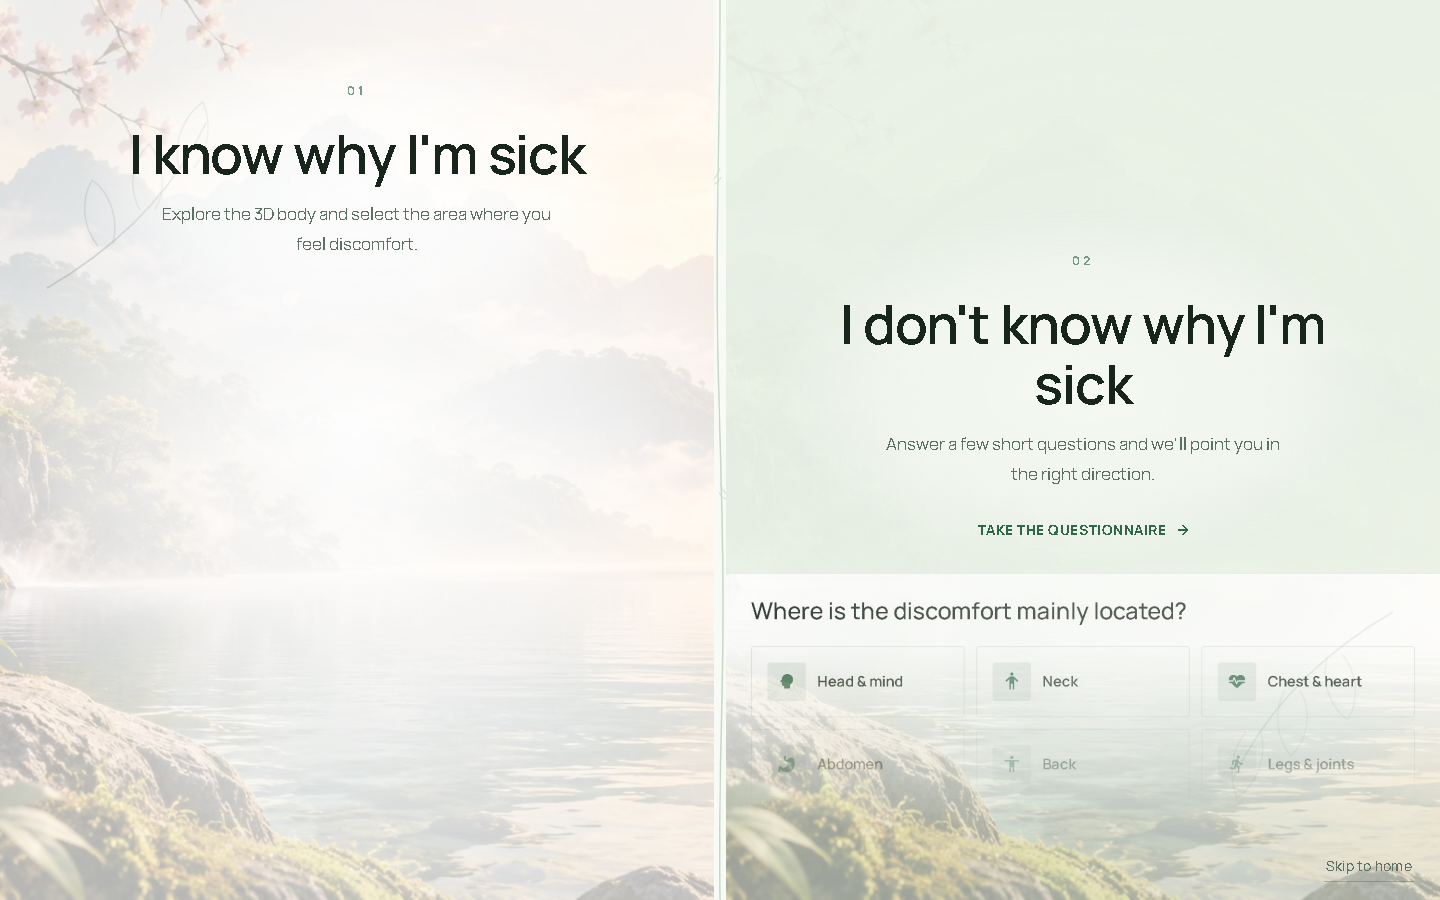
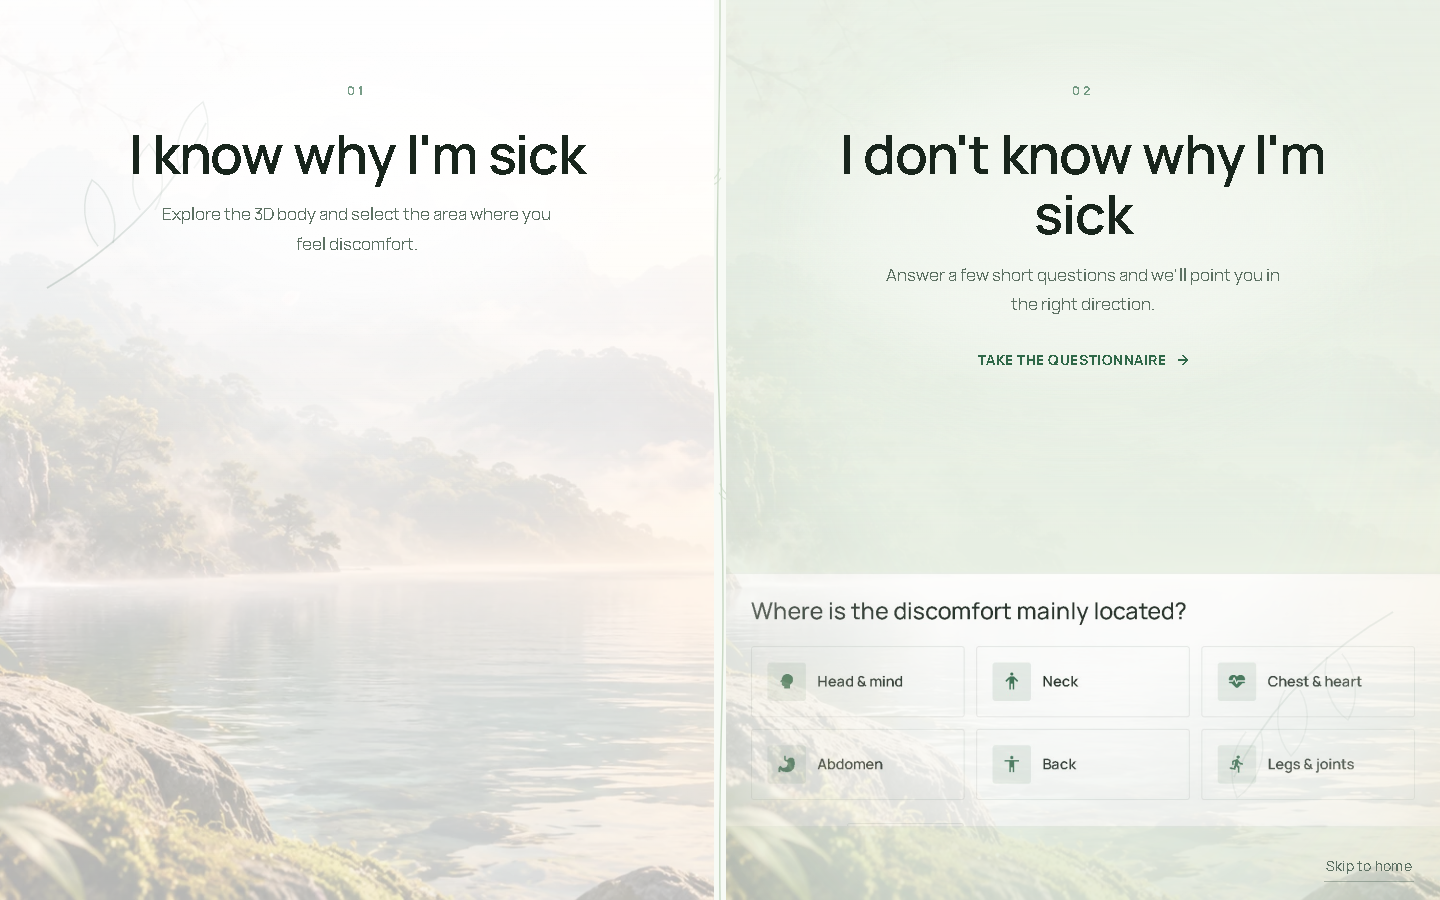
Round 9 visual review screenshots

diff --git a/screenshots/nature-green/INDEX.md b/screenshots/nature-green/INDEX.md
@@ -1,33 +1,55 @@
-# Nature-Green Redesign — Visual Review (Final)
+# Nature-Green Redesign — Visual Review (Round 9)
 
-Screenshots from the **final verification run** (`verify-final.mjs` against the
-live site at `https://localhost`, captured 2026-10-19). These are the
-published nature-green redesign screenshots.
+Screenshots from the **Round 9** verification run (`verify-final.mjs` against the
+live site at `https://localhost`, captured 2026-10-20). These are the newest
+captures; they supersede earlier review sets.
 
 Application source code is **not** published here. This branch contains the
 review screenshots and this index only.
+
+## What changed in Round 9
+
+- **/start previews now read as backgrounds, not framed screenshots.** The body
+  capture is full-bleed with a soft elliptical edge feather (no visible dark
+  rectangle); the questionnaire is a translucent full-half wash with no hard
+  horizontal boundary. Each heading sits in a clear text-safe zone above the
+  artwork, over a top-weighted veil rather than a wash over the whole page.
+- **/start mobile:** each choice owns an independent, edge-feathered preview
+  window inside its own panel — nothing bleeds between sections. "Skip to home"
+  is now a plain, slightly translucent text link in the bottom-right corner
+  (previously a solid green pill), with space reserved so it clears the second
+  choice.
+- **Body explorer:** the selected-organ label now sits beside the anatomy in the
+  side margin, joined by a thin leader line — it no longer covers the organs.
+  Idle region markers are much subtler (clearer on hover/focus/selection). The
+  Mandrake model, default camera framing and the terracotta kidney accent are
+  unchanged.
+- **Booking:** a single available specialty now sits centred deliberately rather
+  than stranded in the first grid cell (no invented data).
+- Homepage chapters 1 and 3 are unchanged; chapter 2 keeps the honest
+  "in preparation / not yet on sale" book state.
 
 ## Files
 
 | File | Viewport | What it shows |
 | --- | --- | --- |
 | `01-language-gate.png` | 1440×900 | Language-selection gate over the nature wash — four locale rows + search |
-| `02-start-neutral.png` | 1440×900 | `/start` in its resting state — two entry panels, no preview revealed |
-| `03-start-left-preview.png` | 1440×900 | `/start` with the **left** panel active — "I know why I'm sick" preview revealed |
-| `04-start-right-preview.png` | 1440×900 | `/start` with the **right** panel active — "I don't know why I'm sick" preview revealed |
+| `02-start-neutral.png` | 1440×900 | `/start` resting state — two entry panels, no preview revealed |
+| `03-start-left-preview.png` | 1440×900 | `/start` **left** active — body preview as a feathered background, heading clear of the anatomy |
+| `04-start-right-preview.png` | 1440×900 | `/start` **right** active — questionnaire as a translucent full-half background, no hard boundary |
 | `05-home-chapter-1.png` | 1440×900 | Homepage **chapter 01** — editorial intro + arched nature photo |
-| `06-home-chapter-2.png` | 1440×900 | Homepage **chapter 02** — the book, service rows, gold booking CTA |
+| `06-home-chapter-2.png` | 1440×900 | Homepage **chapter 02** — the book (honest availability) + service rows + gold booking CTA |
 | `07-home-chapter-3.png` | 1440×900 | Homepage **chapter 03** — share care (family + donations) over the nature wash |
 | `08-body-desktop.png` | 1440×900 | `/body` 3D body explorer, desktop — dark stage, organ selector rail, detail panel |
 | `09-body-mobile.png` | 390×844 | `/body` 3D body explorer, mobile — stacked selector + detail strip |
 | `10-quiz.png` | 1440×900 | `/quiz` — questionnaire step with answer options |
-| `11-booking.png` | 1440×900 | `/booking` — booking landing |
+| `11-booking.png` | 1440×900 | `/booking` — specialty step (Step 1 of 4), single card centred |
 | `12-home-arabic.png` | 1440×900 | Homepage in **Arabic (RTL)** — mirrored layout |
 | `13-start-arabic.png` | 1440×900 | `/start` in **Arabic (RTL)** — mirrored entry panels |
 | `14-mobile-home.png` | 390×844 | Homepage chapter 01 on mobile |
 | `14b-mobile-home-ch2.png` | 390×844 | Homepage chapter 02 on mobile — nav-rail clearance |
-| `15-mobile-start.png` | 390×844 | `/start` on mobile — framed touch previews, dark-green top-right skip pill |
-| `16-body-selected.png` | 1440×900 | `/body` with the **kidneys selected** — camera focus + terracotta coordinator callout |
+| `15-mobile-start.png` | 390×844 | `/start` on mobile — independent feathered previews, bottom-right skip text link |
+| `16-body-selected.png` | 1440×900 | `/body` with the **kidneys selected** — camera focus, terracotta accent, side-margin label |
 
 ## Verification note (honest scope)
 
@@ -36,7 +58,8 @@ matrices, colour scans and console errors — they are **not** a substitute for
 human visual judgement. Image viewing was unavailable during capture, so these
 PNGs are provided specifically for your eyes.
 
-Final-round fixes visible in this set include: a solid dark-green `/start` mobile
-skip pill (clear contrast, 44px tap target, no overlap), the corrected desktop
-`/start` preview framing, and the kidney selection indicator rendered in a
-coordinated terracotta accent (no unintended purple).
+Round 9 asserts added to `verify-final.mjs`: both `/start` previews are
+full-bleed in their panel (`coversPanel`) and carry an edge feather mask
+(`feathered`); the kidneys callout label does not cover the body centre
+(`pillOverCentre:false`) while the dot stays inside the stage canvas; the mobile
+skip link is bottom-anchored and clears the preview windows.
